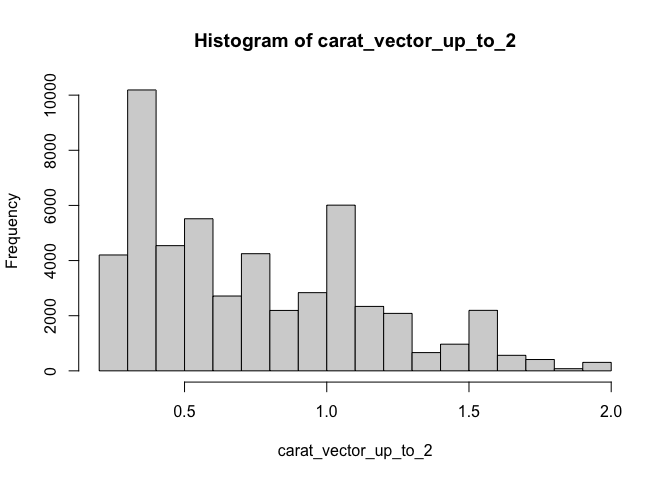
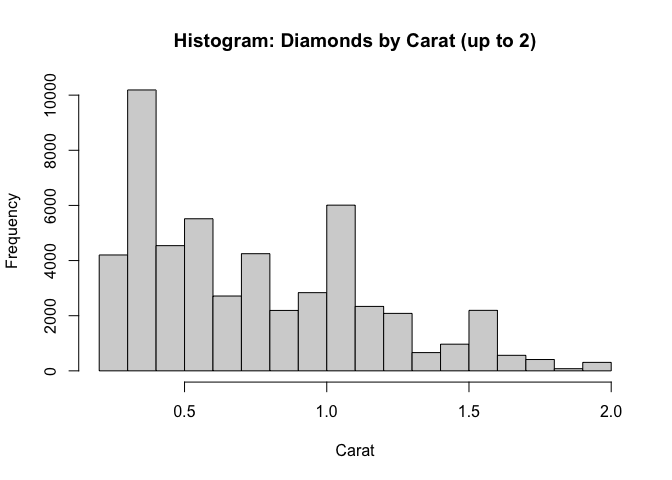
Diamonds challenge, 1.4

Changed region(s): [[0.25, 0.0625, 0.8125, 0.125], [0.4062, 0.9062, 0.6562, 0.9688]]

diff --git a/c00-diamonds-assignment.md b/c00-diamonds-assignment.md
@@ -161,7 +161,7 @@ values, and around 1.5 carats?**
 
 ``` r
 carat_vector <- diamonds$carat
-hist(x = carat_vector, breaks = 20)
+hist(x = carat_vector, main = "Histogram: Diamonds by Carat",  xlab="Carat", breaks = 20)
 ```
 
 ![](c00-diamonds-assignment_files/figure-gfm/unnamed-chunk-1-1.png)<!-- -->
@@ -179,7 +179,7 @@ hist(x = carat_vector, breaks = 20)
 ``` r
 diamonds_up_to_2 <- filter(diamonds, carat <= 2)
 carat_vector_up_to_2 <- diamonds_up_to_2$carat
-hist(x = carat_vector_up_to_2, breaks = 24) 
+hist(x = carat_vector_up_to_2, main = "Histogram: Diamonds by Carat (up to 2)",  xlab="Carat",  breaks = 24) 
 ```
 
 ![](c00-diamonds-assignment_files/figure-gfm/unnamed-chunk-2-1.png)<!-- -->
@@ -209,7 +209,7 @@ ggplot(diamonds_up_to_2) +
 ``` r
 diamonds_2plus <- filter(diamonds, carat >= 2)
 carat_vector_2plus <- diamonds_2plus$carat
-hist(x = carat_vector_2plus, breaks = 24)
+hist(x = carat_vector_2plus, main = "Histogram: Diamonds by Carat (2+)",  xlab="Carat",  breaks = 24)
 ```
 
 ![](c00-diamonds-assignment_files/figure-gfm/unnamed-chunk-3-1.png)<!-- -->
@@ -220,7 +220,7 @@ dataset. Let’s set those aside and focus on the 2-3 carat diamonds.
 ``` r
 diamonds_2_to_3 <- filter(diamonds, carat >= 2 & carat <= 3)
 carat_vector_2_to_3 <- diamonds_2_to_3$carat
-hist(x = carat_vector_2_to_3, breaks = 20)
+hist(x = carat_vector_2_to_3, main = "Histogram: Diamonds by Carat (2-3)",  xlab="Carat", breaks = 20)
 ```
 
 ![](c00-diamonds-assignment_files/figure-gfm/unnamed-chunk-4-1.png)<!-- -->
